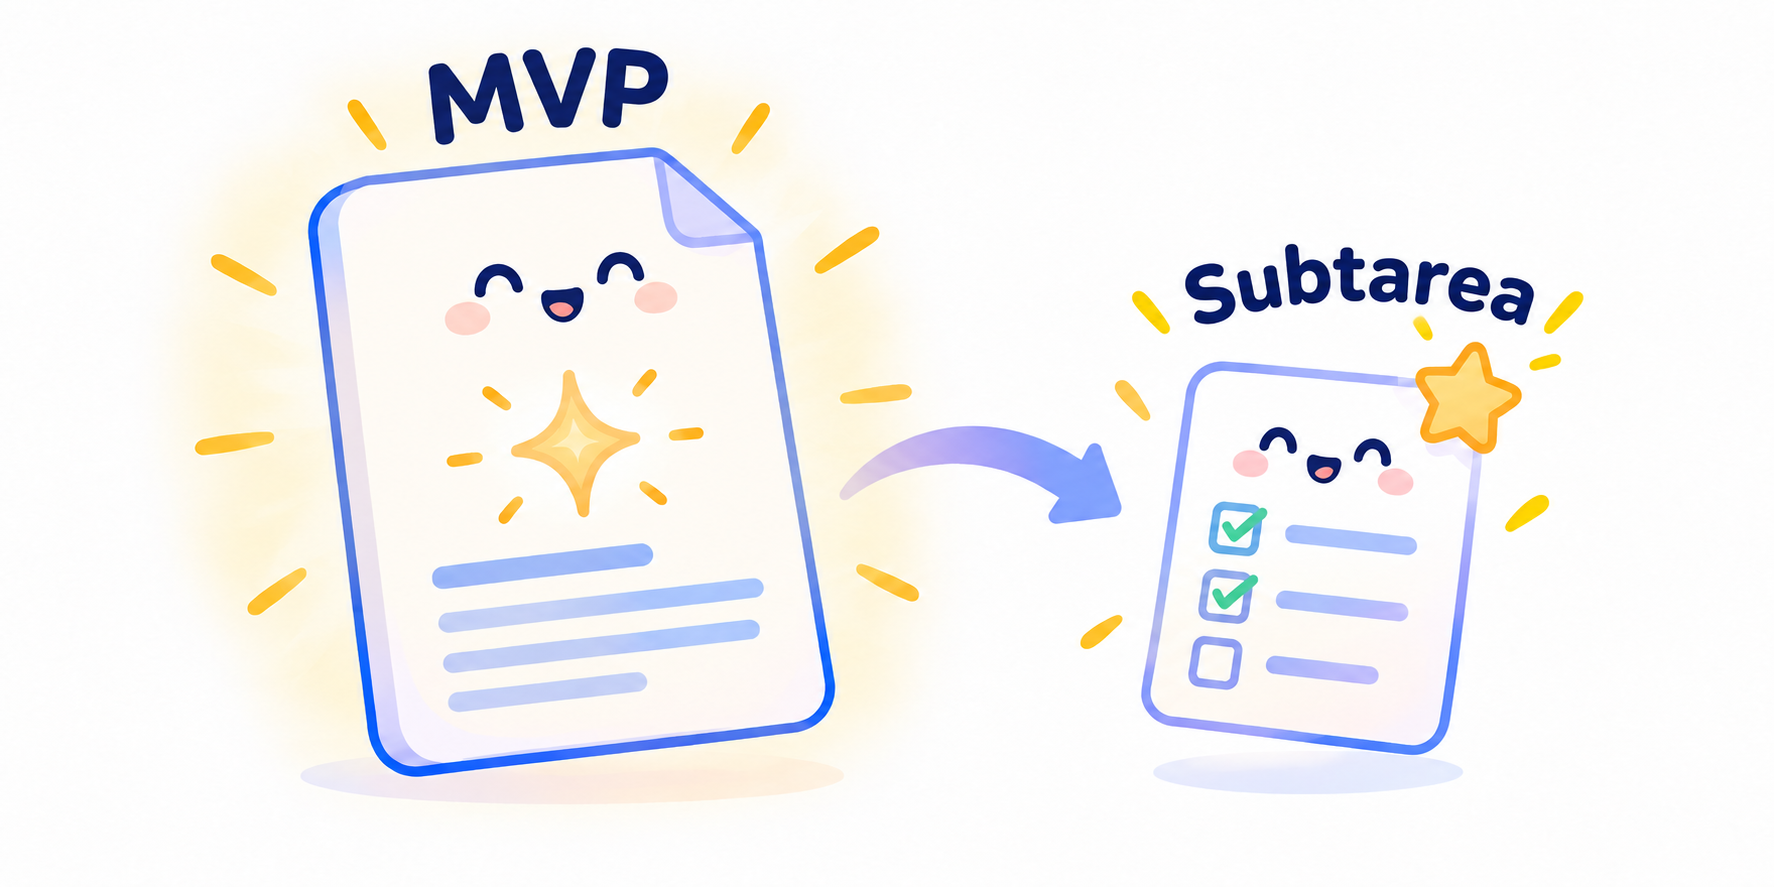
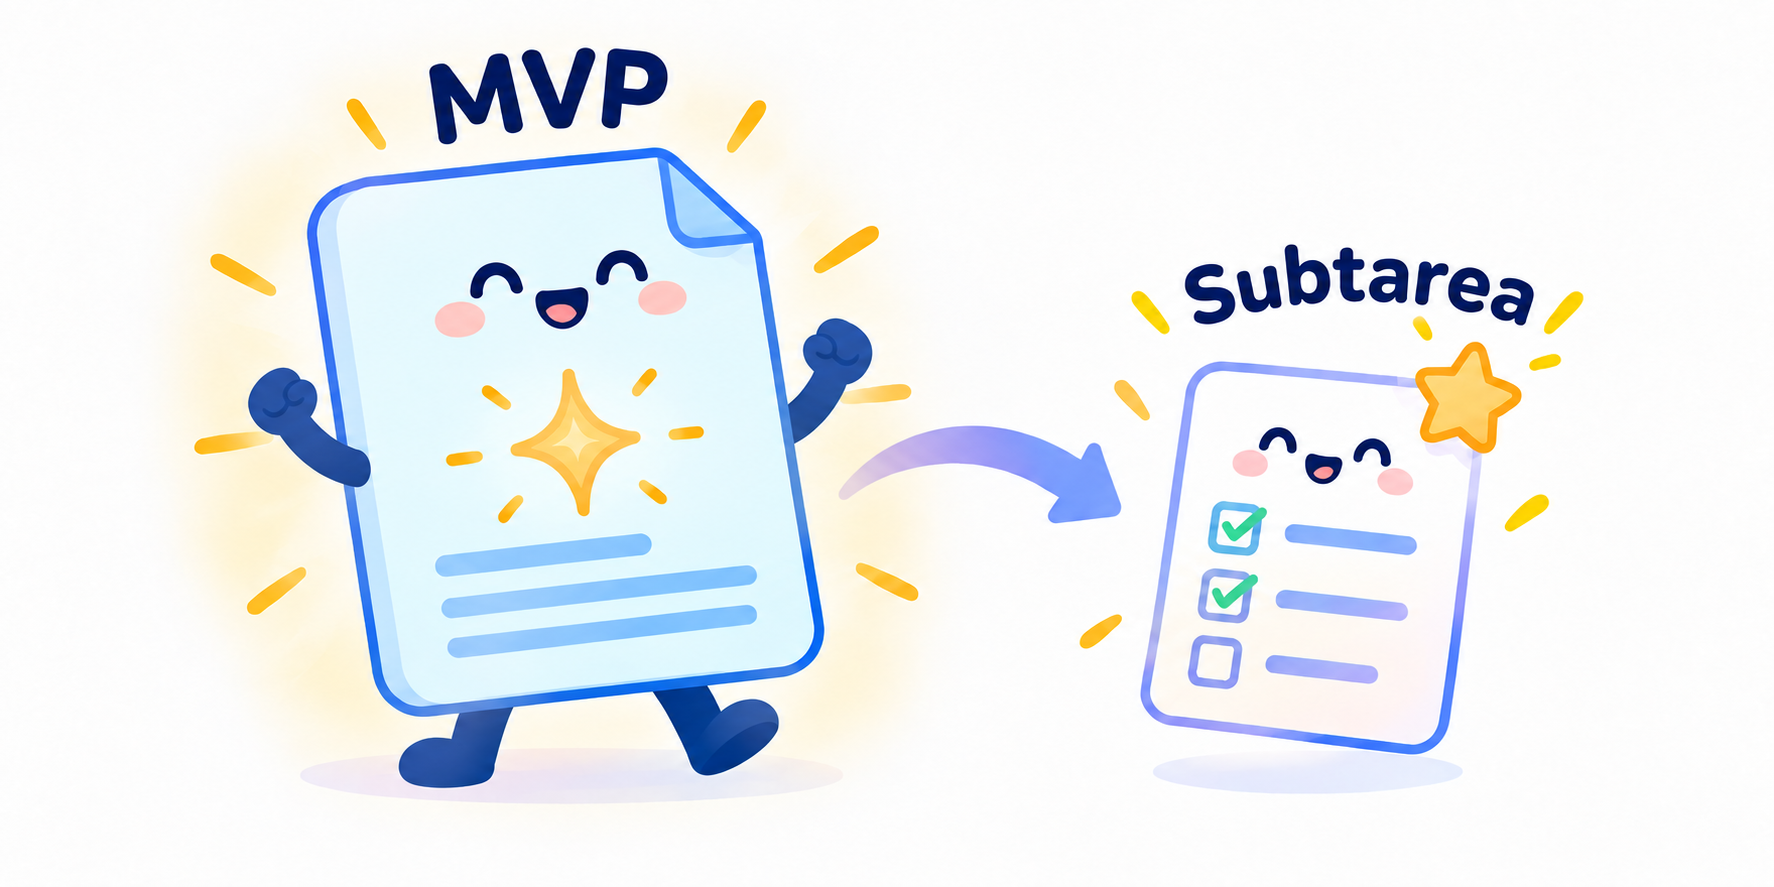
Ajustar ilustraciones de derivacion

diff --git a/docs/mensaje-al-equipo-normalizacion-planificacion.md b/docs/mensaje-al-equipo-normalizacion-planificacion.md
@@ -37,6 +37,8 @@ Si una subtarea Jira queda demasiado grande, puede dividirse en varias subtareas
 
 ## Por qué no debemos forzar la derivación
 
+![No forzar una derivación que no encaja](assets/no-forzar-derivacion.png)
+
 Forzar por fuera de la decisión del skill que algo sea una subtarea puede generar:
 
 - fragmentación artificial;
